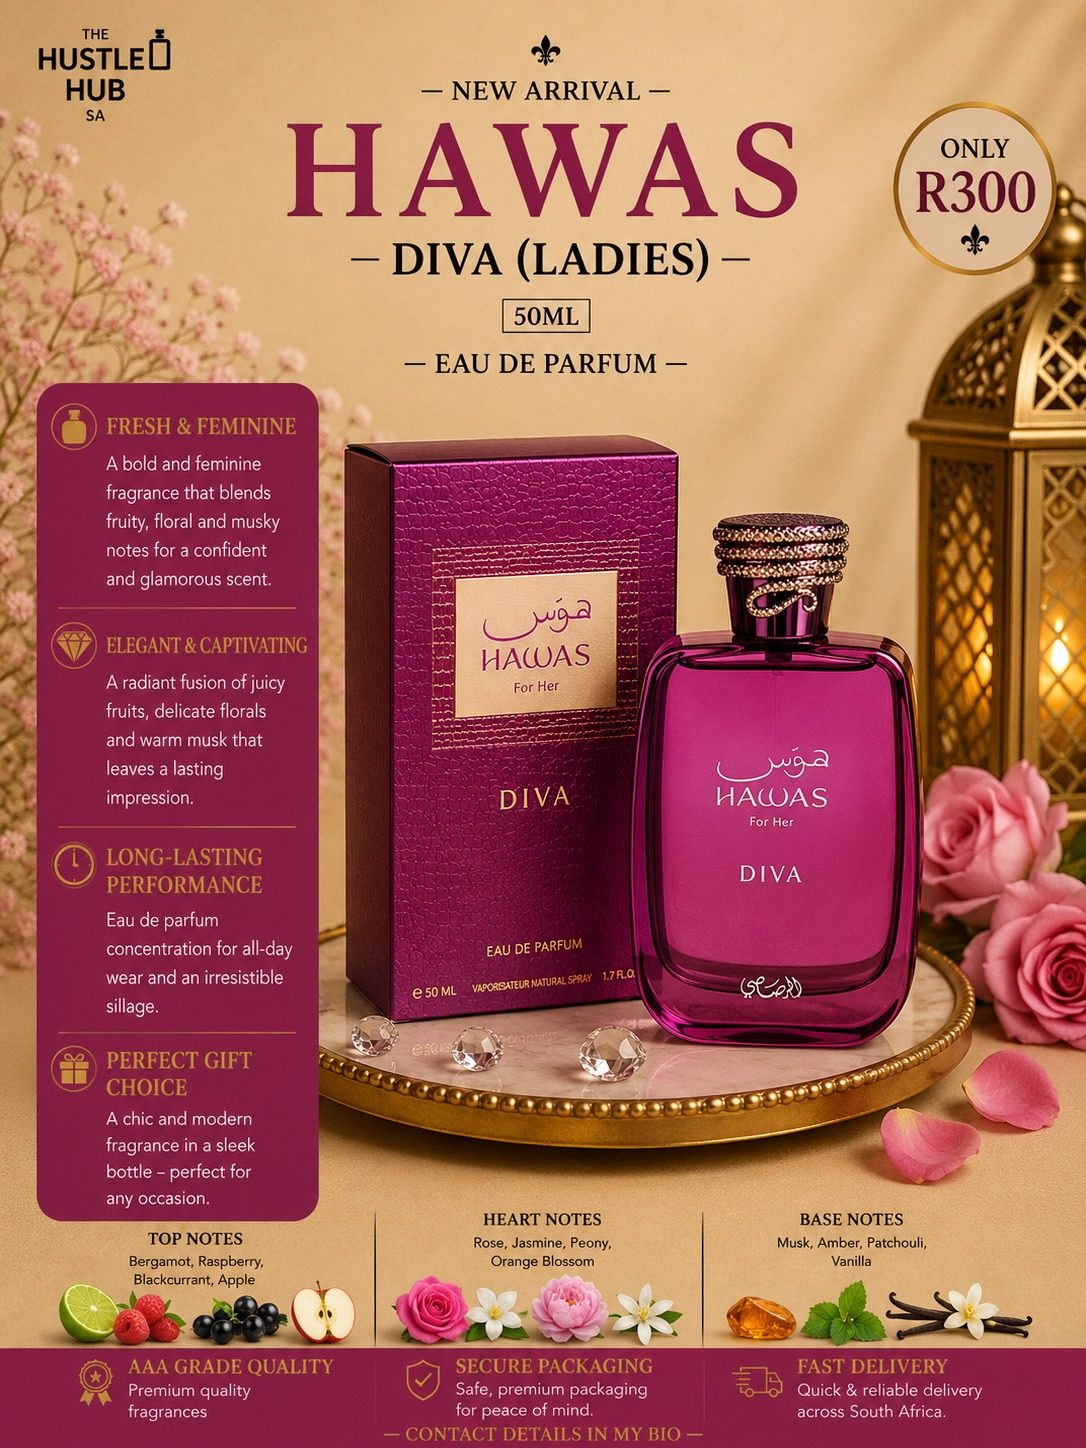
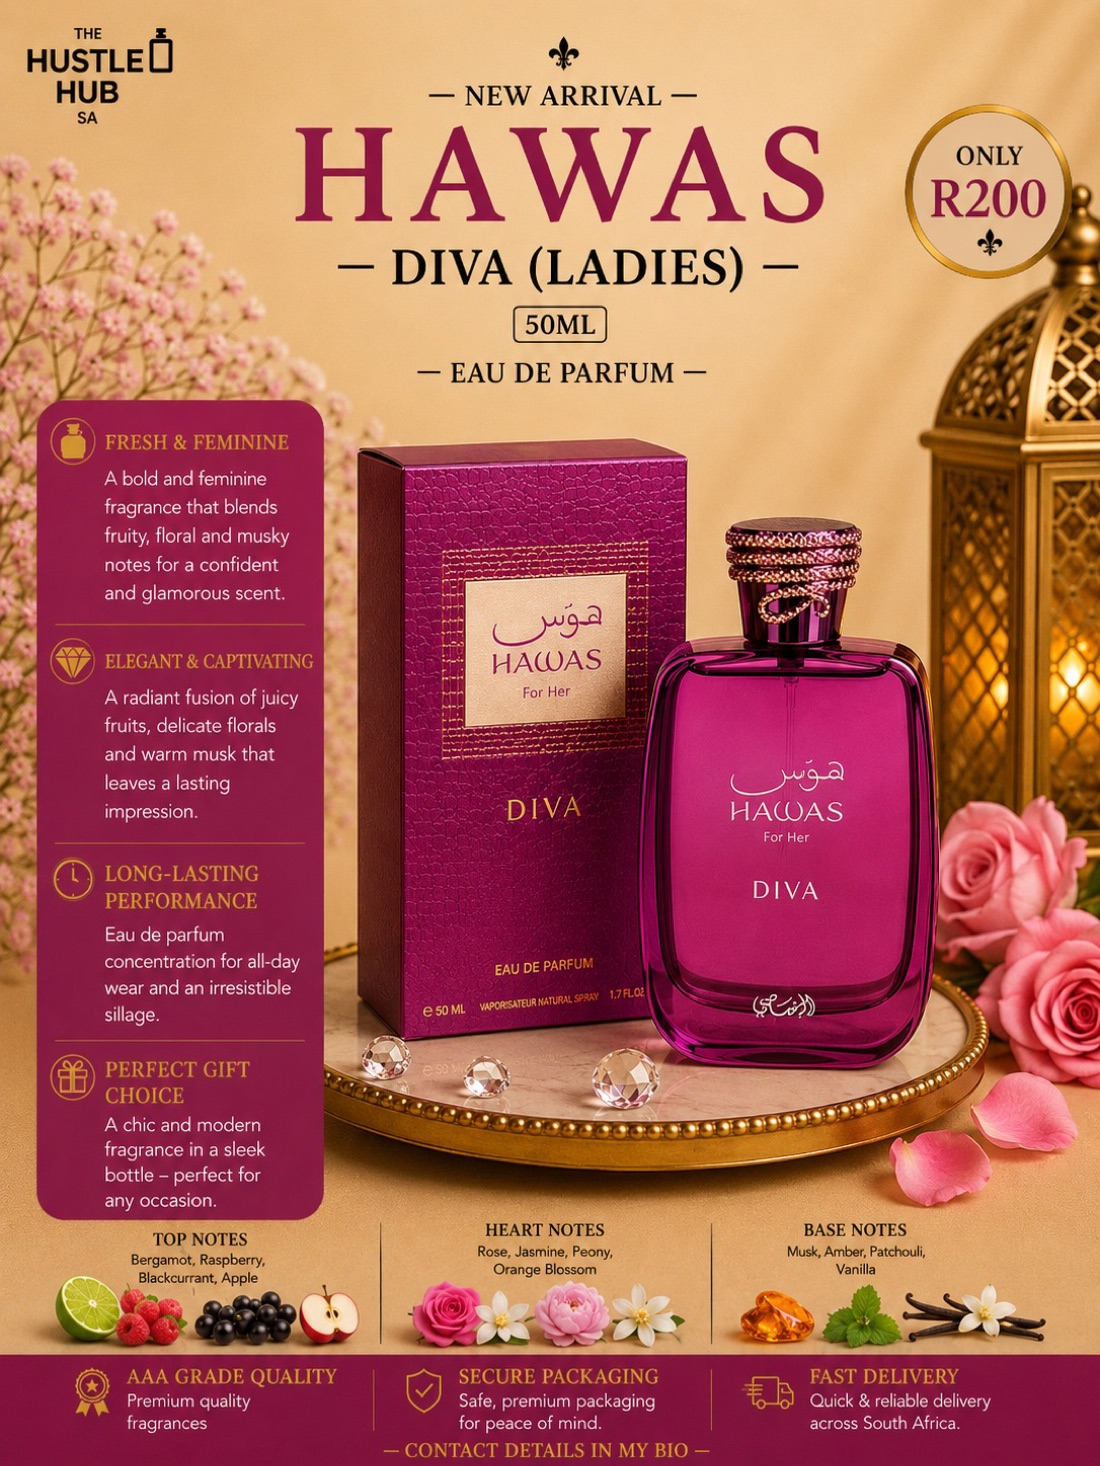
Add 3 Gold V Cleef bracelets and update Hawas For Him / Hawas Diva to R200
- Gold and Black and Gold V Cleef Bracelet (HBRG216), Gold Christian D
  Bracelet (HBRG211), Gold and White Mini V Cleef Bracelet (HBRG213)
- Hawas For Him and Hawas Diva 50ml drop from R300 to R200, completing
  the Hawas 50ml line at a uniform R200 on both the men's and ladies' pages

diff --git a/jewellery.html b/jewellery.html
@@ -219,9 +219,9 @@ footer{background:var(--bg2);border-top:1px solid var(--border);padding:40px 32p
 <div class="section-inner">
 <div class="section-eyebrow">Tarnish Free · Waterproof · Hypoallergenic</div>
 <h2 class="section-title">BellaTia Jewellery</h2>
-<p class="section-count">273 pieces · Bangles, bracelets, earrings, rings, necklaces, pendants &amp; charms · Order by product code</p>
+<p class="section-count">276 pieces · Bangles, bracelets, earrings, rings, necklaces, pendants &amp; charms · Order by product code</p>
 
-<h3 class="sub-title" id="gold-bangles">Gold Bangles &amp; Bracelets — 44 Styles · R150 to R400</h3>
+<h3 class="sub-title" id="gold-bangles">Gold Bangles &amp; Bracelets — 47 Styles · R150 to R400</h3>
 <div class="product-grid">
 
 <div class="product-card"><img src="bellatia-bangle-lcbg062.jpg" alt="Gold Mesh Cuff Bangle" loading="lazy"/><div class="product-info"><div class="badge badge-gold">Available</div><div class="product-name">Gold Mesh Cuff Bangle</div><div class="product-sub">BellaTia · Code: LCBG062 · Woven mesh cuff, open back</div><div class="product-footer"><span class="product-price">R180</span><button class="add-btn" onclick="addToCart('Gold Mesh Cuff Bangle (LCBG062)','R180','bellatia-bangle-lcbg062.jpg')">+ Add</button></div></div></div>
@@ -321,6 +321,12 @@ footer{background:var(--bg2);border-top:1px solid var(--border);padding:40px 32p
 <div class="product-card"><img src="bellatia-bracelet-lzbrg005.jpg" alt="Gold Paperclip Bracelet with G Clasp" loading="lazy"/><div class="product-info"><div class="badge badge-gold">Available</div><div class="product-name">Gold Paperclip Bracelet with G Clasp</div><div class="product-sub">BellaTia · Code: LZBRG005 · 20cm</div><div class="product-footer"><span class="product-price">R150</span><button class="add-btn" onclick="addToCart('Gold Paperclip Bracelet with G Clasp (LZBRG005)','R150','bellatia-bracelet-lzbrg005.jpg')">+ Add</button></div></div></div>
 
 <div class="product-card"><img src="bellatia-bracelet-lzbrg004.jpg" alt="6mm Gold Roly Bracelet with Signoretti Clasp" loading="lazy"/><div class="product-info"><div class="badge badge-gold">Available</div><div class="product-name">6mm Gold Roly Bracelet with Signoretti Clasp</div><div class="product-sub">BellaTia · Code: LZBRG004 · 20cm</div><div class="product-footer"><span class="product-price">R180</span><button class="add-btn" onclick="addToCart('6mm Gold Roly Bracelet with Signoretti Clasp (LZBRG004)','R180','bellatia-bracelet-lzbrg004.jpg')">+ Add</button></div></div></div>
+
+<div class="product-card"><img src="bellatia-bracelet-hbrg216.jpg" alt="Gold and Black and Gold V Cleef Bracelet" loading="lazy"/><div class="product-info"><div class="badge badge-gold">New Arrival</div><div class="product-name">Gold and Black and Gold V Cleef Bracelet</div><div class="product-sub">BellaTia · Code: HBRG216</div><div class="product-footer"><span class="product-price">R160</span><button class="add-btn" onclick="addToCart('Gold and Black and Gold V Cleef Bracelet (HBRG216)','R160','bellatia-bracelet-hbrg216.jpg')">+ Add</button></div></div></div>
+
+<div class="product-card"><img src="bellatia-bracelet-hbrg211.jpg" alt="Gold Christian D Bracelet" loading="lazy"/><div class="product-info"><div class="badge badge-gold">New Arrival</div><div class="product-name">Gold Christian D Bracelet</div><div class="product-sub">BellaTia · Code: HBRG211</div><div class="product-footer"><span class="product-price">R180</span><button class="add-btn" onclick="addToCart('Gold Christian D Bracelet (HBRG211)','R180','bellatia-bracelet-hbrg211.jpg')">+ Add</button></div></div></div>
+
+<div class="product-card"><img src="bellatia-bracelet-hbrg213.jpg" alt="Gold and White Mini V Cleef Bracelet" loading="lazy"/><div class="product-info"><div class="badge badge-gold">New Arrival</div><div class="product-name">Gold and White Mini V Cleef Bracelet</div><div class="product-sub">BellaTia · Code: HBRG213</div><div class="product-footer"><span class="product-price">R160</span><button class="add-btn" onclick="addToCart('Gold and White Mini V Cleef Bracelet (HBRG213)','R160','bellatia-bracelet-hbrg213.jpg')">+ Add</button></div></div></div>
 
 </div>
 

diff --git a/dubai-perfumes-men.html b/dubai-perfumes-men.html
@@ -1042,7 +1042,7 @@ footer{background:var(--bg2);border-top:1px solid var(--border);padding:40px 32p
   <div class="section-inner">
     <div class="section-eyebrow">Rasasi · Hawas · Travel-Friendly Size</div>
     <h2 class="section-title">Hawas 50ml</h2>
-    <p class="section-count">3 fragrances — R200 to R300</p>
+    <p class="section-count">3 fragrances — R200 each</p>
     <div class="product-grid">
 
       <div class="product-card">
@@ -1052,8 +1052,8 @@ footer{background:var(--bg2);border-top:1px solid var(--border);padding:40px 32p
           <div class="product-name">Hawas For Him</div>
           <div class="product-sub">Rasasi · EDP · 50ml</div>
           <div class="product-footer">
-            <span class="product-price">R300</span>
-            <button class="add-btn" onclick="addToCart('Hawas For Him — Rasasi 50ml','R300','dubai-men-hawas50-for-him.jpg')">+ Add to Order</button>
+            <span class="product-price">R200</span>
+            <button class="add-btn" onclick="addToCart('Hawas For Him — Rasasi 50ml','R200','dubai-men-hawas50-for-him.jpg')">+ Add to Order</button>
           </div>
         </div>
       </div>

diff --git a/dubai-perfumes-ladies.html b/dubai-perfumes-ladies.html
@@ -1231,7 +1231,7 @@ footer{background:var(--bg2);border-top:1px solid var(--border);padding:40px 32p
   <div class="section-inner">
     <div class="section-eyebrow">Rasasi · Hawas · Travel-Friendly Size</div>
     <h2 class="section-title">Hawas 50ml</h2>
-    <p class="section-count">3 fragrances — R200 to R300</p>
+    <p class="section-count">3 fragrances — R200 each</p>
     <div class="product-grid">
 
       <div class="product-card">
@@ -1254,8 +1254,8 @@ footer{background:var(--bg2);border-top:1px solid var(--border);padding:40px 32p
           <div class="product-name">Hawas Diva</div>
           <div class="product-sub">Rasasi · EDP · 50ml</div>
           <div class="product-footer">
-            <span class="product-price">R300</span>
-            <button class="add-btn" onclick="addToCart('Hawas Diva — Rasasi 50ml','R300','dubai-ladies-hawas50-diva.jpg')">+ Add to Order</button>
+            <span class="product-price">R200</span>
+            <button class="add-btn" onclick="addToCart('Hawas Diva — Rasasi 50ml','R200','dubai-ladies-hawas50-diva.jpg')">+ Add to Order</button>
           </div>
         </div>
       </div>
